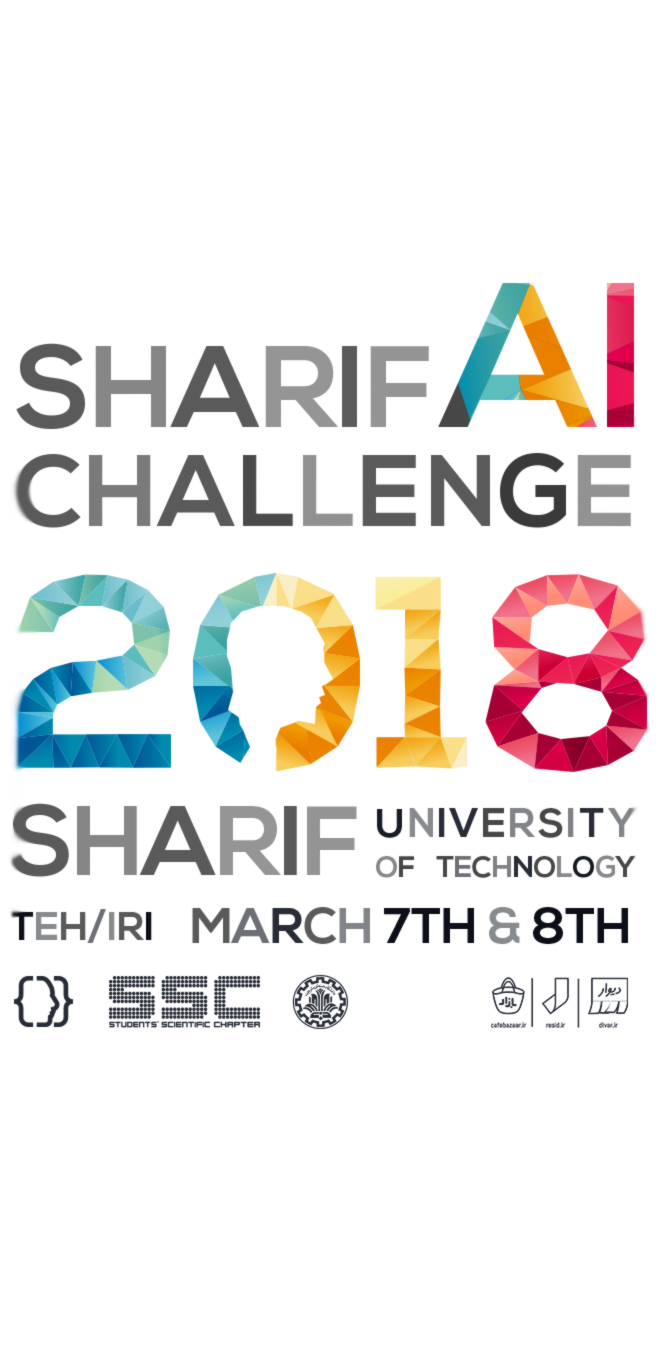
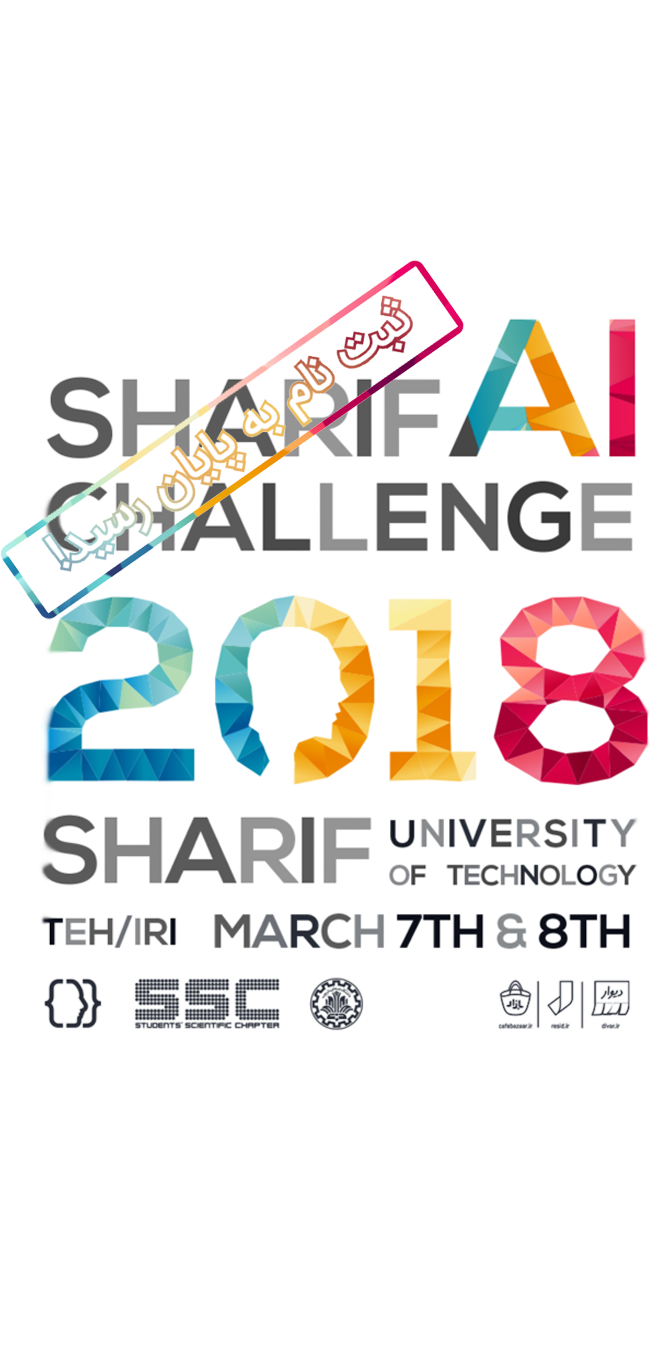
added closed registration stamp

Changed region(s): [[0.0, 0.1858, 0.994, 0.7743]]

diff --git a/apps/intro/static/intro/css/stylesheet.css b/apps/intro/static/intro/css/stylesheet.css
@@ -106,31 +106,56 @@
 }
 
 .aic18-stamp {
-    display: inline-block;
+    --scale-factor: 3px;
+    --scale-factor_npx: 3;
+    --scale-factor_prc: 3%;
+    position: fixed;
+    margin-top: -40% !important;
+    margin-left: -15% !important;
 
-    border-radius: 20px;
-    border: 15px solid;
+    width: 300px;
+
+    line-height: calc(13*var(--scale-factor));
+    height: calc(17*var(--scale-factor));
+
+    border-radius: calc(2*var(--scale-factor));
+    border: calc(1.5*var(--scale-factor)) solid;
 
     text-transform: uppercase;
-    font-size: 100px;
-    letter-spacing: -3px;
+    font-size: calc(10*var(--scale-factor));
+    letter-spacing: calc(-0.3*var(--scale-factor));
 
-    margin: 0 auto;
-    padding: 0 34px;
+    -ms-transform: rotate(-35deg);
+    -webkit-transform: rotate(-35deg);
+    transform: rotate(-35deg);
+    opacity: 1;
 
-    -ms-transform: rotate(-20deg);
-    -webkit-transform: rotate(-20deg);
-    transform: rotate(-20deg);
-    opacity: .8;
-
-    /*-webkit-filter: blur(1px);*/
-    /*filter: blur(1px);*/
-
-    background: -webkit-linear-gradient(45deg, #848caa, #b6dcd5, #eec989, #f6cca4, #a97292, #e080a0);
-    background: linear-gradient(45deg, #848caa, #b6dcd5, #eec989, #f6cca4, #a97292, #e080a0);
+    background: -webkit-linear-gradient(45deg, #59648c, #a4d4d3, #eab05f, #efc35f, #991e38, #f19681);
+    background: linear-gradient(45deg, #59648c, #a4d4d3, #eab05f, #efc35f, #991e38, #f19681);
 
     -webkit-background-clip: text;
-    -webkit-text-fill-color: transparent;
+    -webkit-text-fill-color: white;
 
-    border-image:url("/static/intro/image/stamp_texture.png") 30;
+    -webkit-text-stroke: 4px white;
+    -webkit-text-stroke-color: transparent;
+
+    background-color: white;
+    border-image:url("/static/intro/image/stamp_texture.png") calc(3*var(--scale-factor_npx));
 }
+
+/*.aic18-stamp-back {*/
+    /*--scale-factor: 3px;*/
+    /*--scale-factor_npx: 3;*/
+
+    /*width: 40%;*/
+    /*margin-top: -20% !important;*/
+
+    /*height: calc(17*var(--scale-factor));*/
+
+    /*-ms-transform: rotate(-20deg);*/
+    /*-webkit-transform: rotate(-20deg);*/
+    /*transform: rotate(-20deg);*/
+    /*opacity: 0.9;*/
+
+    /*background: white;*/
+/*}*/

diff --git a/apps/intro/templates/intro/index.html b/apps/intro/templates/intro/index.html
@@ -13,9 +13,12 @@
 <div class="odd banner section" align="center">
     <img class="banner text image{% if LANGUAGE_BIDI %} bidi{% endif %}"
          src="{% static 'intro/image/banner-text.png' %}">
-    <div class="aic18-stamp">
-        Registration closed!
-    </div>
+    <!--<div class="ui section">-->
+        <!--<div class="ui center aligned grid"></div>-->
+        <!--<div class="ui center aligned grid aic18-stamp">-->
+            <!--ثبت نام به پایان رسید!-->
+        <!--</div>-->
+    <!--</div>-->
 </div>
 
 <div class="even section" id="section-intro">
